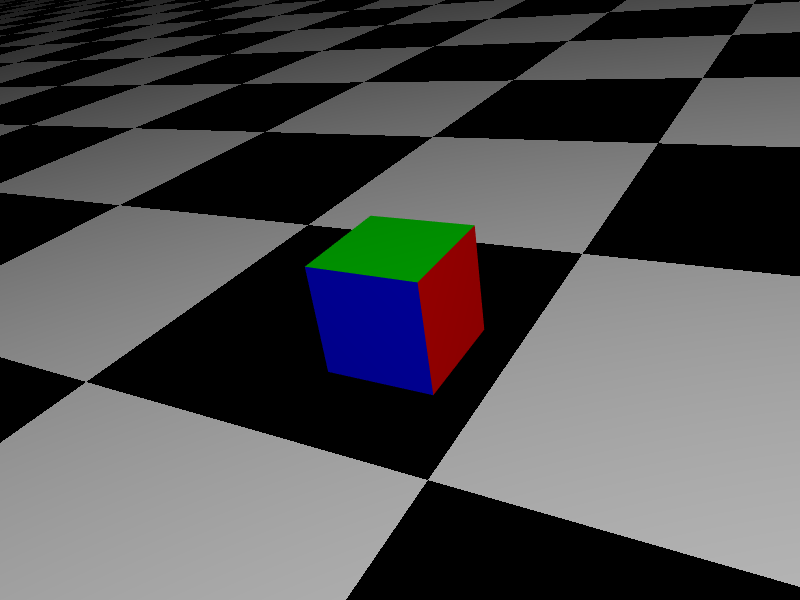
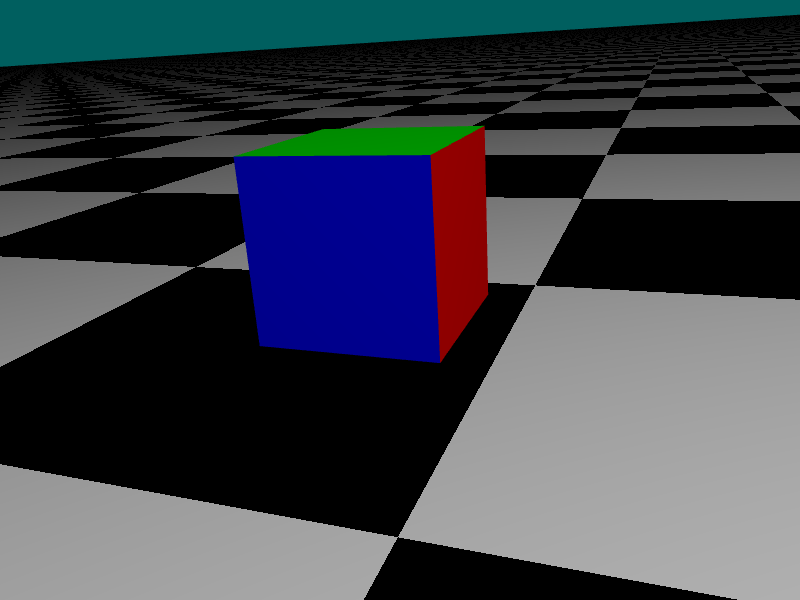
updated starter code

diff --git a/src/menger/tests/MengerTests.ts b/src/menger/tests/MengerTests.ts
@@ -116,7 +116,11 @@ for (let i = 1; i < 5; i++) {
     "Menger Sponge Level " + i,
     "./static/img/menger/level_" + i + "_ref.png",
     (animation) => {
-      dragMouse(canvas, -1, 1, 15);
+      animation.reset();
+      dragMouse(canvas, 1, -1, 10);
+      pressKey(window, "KeyW", 30);
+      pressKey(window, "KeyD", 5);
+      dragMouse(canvas, -1, 1, 20);
       pressKey(window, "Digit" + i, 1);
       animation.draw();
     }
@@ -126,17 +130,18 @@ for (let i = 1; i < 5; i++) {
 /**
  * Tests the mouse orbital rotation
  */
-mengerTests.integrationTest(
+/*mengerTests.integrationTest(
   "Mouse Orbital Rotation",
   "./static/img/menger/mouse_orbit_rotation_ref.png",
   (animation) => {
-
+    animation.reset();
     pressKey(window, "Digit2", 1);
+    pressKey(window, "KeyC", 1);
     dragMouse(canvas, -1, 1, 10);
     animation.draw();
 
   }
-);
+);*/
 
 /**
  * Tests the mouse fps rotation
@@ -145,8 +150,8 @@ mengerTests.integrationTest(
   "Mouse FPS Rotation",
   "./static/img/menger/mouse_fps_rotation_ref.png",
   (animation) => {
+    animation.reset();
     pressKey(window, "Digit2", 1);
-    pressKey(window, "KeyC", 1);
     dragMouse(canvas, -1, -1, 10);
     animation.draw();
   }
@@ -159,6 +164,7 @@ mengerTests.integrationTest(
   "Mouse Zoom In",
   "./static/img/menger/mouse_zoom_in_ref.png",
   (animation) => {
+    animation.reset();
     pressKey(window, "Digit2", 1);
     dragMouse(canvas, -1, -1, 35, true);
     animation.draw();
@@ -172,6 +178,7 @@ mengerTests.integrationTest(
   "Mouse Zoom Out",
   "./static/img/menger/mouse_zoom_out_ref.png",
   (animation) => {
+    animation.reset();
     pressKey(window, "Digit2", 1);
     dragMouse(canvas, -1, 1, 35, true);
     animation.draw();
@@ -181,15 +188,17 @@ mengerTests.integrationTest(
 /**
  * Tests W key Orbital Mode
  */
-mengerTests.integrationTest(
+/*mengerTests.integrationTest(
   "W Key (Orbital Mode)",
   "./static/img/menger/w_orbital_ref.png",
   (animation) => {
+    animation.reset();
     pressKey(window, "Digit2", 1);
+    pressKey(window, "KeyC", 1);
     pressKey(window, "KeyW", 35);
     animation.draw();
   }
-);
+);*/
 
 /**
  * Tests W Key in FPS Mode
@@ -198,8 +207,8 @@ mengerTests.integrationTest(
   "W Key (FPS Mode)",
   "./static/img/menger/w_fps_ref.png",
   (animation) => {
+    animation.reset();
     pressKey(window, "Digit2", 1);
-    pressKey(window, "KeyC", 1);
     dragMouse(canvas, 1, 0, 5);
     pressKey(window, "KeyW", 30);
     animation.draw();
@@ -209,15 +218,17 @@ mengerTests.integrationTest(
 /**
  * Tests S key Orbital Mode
  */
-mengerTests.integrationTest(
+/*mengerTests.integrationTest(
   "S Key (Orbital Mode)",
   "./static/img/menger/s_orbital_ref.png",
   (animation) => {
+    animation.reset();
     pressKey(window, "Digit2", 1);
+    pressKey(window, "KeyC", 1);  
     pressKey(window, "KeyS", 35);
     animation.draw();
   }
-);
+);*/
 
 /**
  * Tests S Key in FPS Mode
@@ -226,8 +237,8 @@ mengerTests.integrationTest(
   "S Key (FPS Mode)",
   "./static/img/menger/s_fps_ref.png",
   (animation) => {
+    animation.reset();
     pressKey(window, "Digit2", 1);
-    pressKey(window, "KeyC", 1);
     dragMouse(canvas, 1, 0, 10);
     pressKey(window, "KeyS", 30);
     animation.draw();
@@ -237,16 +248,18 @@ mengerTests.integrationTest(
 /**
  * Tests A key Orbital Mode
  */
-mengerTests.integrationTest(
+/*mengerTests.integrationTest(
   "A Key (Orbital Mode)",
   "./static/img/menger/a_orbital_ref.png",
   (animation) => {
+    animation.reset();
     pressKey(window, "Digit2", 1);
     pressKey(window, "KeyW", 35);
+    pressKey(window, "KeyC", 1);    
     pressKey(window, "KeyA", 5);
     animation.draw();
   }
-);
+);*/
 
 /**
  * Tests A Key in FPS Mode
@@ -256,9 +269,9 @@ mengerTests.integrationTest(
   "./static/img/menger/a_fps_ref.png",
   (animation) => {
     if (animation) {
+      animation.reset();
       pressKey(window, "Digit2", 1);
       pressKey(window, "KeyW", 35);
-      pressKey(window, "KeyC", 1);
       pressKey(window, "KeyA", 10);
       animation.draw();
     }
@@ -268,18 +281,20 @@ mengerTests.integrationTest(
 /**
  * Tests D key Orbital Mode
  */
-mengerTests.integrationTest(
+/*mengerTests.integrationTest(
   "D Key (Orbital Mode)",
   "./static/img/menger/d_orbital_ref.png",
   (animation) => {
     if (animation) {
+      animation.reset();
       pressKey(window, "Digit2", 1);
       pressKey(window, "KeyW", 35);
+      pressKey(window, "KeyC", 1);
       pressKey(window, "KeyD", 5);
       animation.draw();
     }
   }
-);
+);*/
 
 /**
  * Tests D Key in FPS Mode
@@ -289,9 +304,9 @@ mengerTests.integrationTest(
   "./static/img/menger/d_fps_ref.png",
   (animation) => {
     if (animation) {
+      animation.reset();
       pressKey(window, "Digit2", 1);
       pressKey(window, "KeyW", 35);
-      pressKey(window, "KeyC", 1);
       pressKey(window, "KeyD", 10);
       animation.draw();
     }
@@ -306,8 +321,9 @@ mengerTests.integrationTest(
   "./static/img/menger/left_arrow_ref.png",
   (animation) => {
     if (animation) {
+      animation.reset();
       pressKey(window, "Digit2", 1);
-      dragMouse(canvas, -1, 1, 15);
+      //dragMouse(canvas, -1, 1, 15);
       pressKey(window, "ArrowLeft", 10);
       animation.draw();
     }
@@ -322,8 +338,9 @@ mengerTests.integrationTest(
   "./static/img/menger/right_arrow_ref.png",
   (animation) => {
     if (animation) {
+      animation.reset();
       pressKey(window, "Digit2", 1);
-      dragMouse(canvas, -1, 1, 15);
+      //dragMouse(canvas, -1, 1, 15);
       pressKey(window, "ArrowRight", 10);
       animation.draw();
     }
@@ -333,17 +350,19 @@ mengerTests.integrationTest(
 /**
  * Tests Up arrow key in orbital mode
  */
-mengerTests.integrationTest(
+/*mengerTests.integrationTest(
   "Up Arrow Key (Orbital Mode)",
   "./static/img/menger/up_arrow_orbital_ref.png",
   (animation) => {
     if (animation) {
+      animation.reset();
       pressKey(window, "Digit2", 1);
+      pressKey(window, "KeyC", 1);
       pressKey(window, "ArrowUp", 4);
       animation.draw();
     }
   }
-);
+);*/
 
 /**
  * Tests up arrow in fps mode
@@ -353,8 +372,8 @@ mengerTests.integrationTest(
   "./static/img/menger/up_arrow_fps_ref.png",
   (animation) => {
     if (animation) {
+      animation.reset();
       pressKey(window, "Digit2", 1);
-      pressKey(window, "KeyC", 1);
       pressKey(window, "ArrowUp", 13);
       animation.draw();
     }
@@ -364,17 +383,19 @@ mengerTests.integrationTest(
 /**
  * Tests down arrow key in orbital mode
  */
-mengerTests.integrationTest(
+/*mengerTests.integrationTest(
   "Down Arrow Key (Orbital Mode)",
   "./static/img/menger/down_arrow_orbital_ref.png",
   (animation) => {
     if (animation) {
+      animation.reset();
       pressKey(window, "Digit2", 1);
+      pressKey(window, "KeyC", 1);
       pressKey(window, "ArrowDown", 4);
       animation.draw();
     }
   }
-);
+);*/
 
 /**
  * Tests down arrow in fps mode
@@ -384,8 +405,8 @@ mengerTests.integrationTest(
   "./static/img/menger/down_arrow_fps_ref.png",
   (animation) => {
     if (animation) {
+      animation.reset();
       pressKey(window, "Digit2", 1);
-      pressKey(window, "KeyC", 1);
       pressKey(window, "ArrowDown", 10);
       animation.draw();
     }

diff --git a/src/menger/MengerSponge.ts b/src/menger/MengerSponge.ts
@@ -16,7 +16,8 @@ interface IMengerSponge {
 export class MengerSponge implements IMengerSponge {
 
   // TODO: sponge data structures
-  
+  public level: number;
+
   constructor(level: number) {
 	  this.setLevel(level);
 	  // TODO: other initialization	
@@ -34,13 +35,23 @@ export class MengerSponge implements IMengerSponge {
   
   public setLevel(level: number)
   {
+    this.level = level;
 	  // TODO: initialize the cube
   }
 
   /* Returns a flat Float32Array of the sponge's vertex positions */
   public positionsFlat(): Float32Array {
 	  // TODO: right now this makes a single triangle. Make the cube fractal instead.
-	  return new Float32Array([1.0, 0.0, 0.0, 1.0, -1.0, 0.0, 0.0, 1.0, 0.0, 1.0, 0.0, 1.0]);
+	  let min = -0.5;
+    let max = 0.5; 
+    return new Float32Array([min, min, min, 1.0, 
+                            min, min, max, 1.0, 
+                            min, max, max, 1.0,
+                            min, max, min, 1.0,
+                            max, min, max, 1.0,
+                            max, min, min, 1.0,
+                            max, max, min, 1.0,
+                            max, max, max, 1.0,]);
   }
 
   /**
@@ -48,7 +59,8 @@ export class MengerSponge implements IMengerSponge {
    */
   public indicesFlat(): Uint32Array {
     // TODO: right now this makes a single triangle. Make the cube fractal instead.
-    return new Uint32Array([0, 1, 2]);
+
+    return new Uint32Array([0, 1, 2, 3, 4, 5]);
   }
 
   /**
@@ -56,7 +68,14 @@ export class MengerSponge implements IMengerSponge {
    */
   public normalsFlat(): Float32Array {
 	  // TODO: right now this makes a single triangle. Make the cube fractal instead.
-	  return new Float32Array([0.0, 0.0, 1.0, 0.0, 0.0, 0.0, 1.0, 0.0, 0.0, 0.0, 1.0, 0.0]);
+	  return new Float32Array([0.0, 0.0, 1.0, 0.0, 
+                            0.0, 0.0, 1.0, 0.0, 
+                            0.0, 0.0, 1.0, 0.0,
+                            0.0, 0.0, 1.0, 0.0,
+                            0.0, 0.0, -1.0, 0.0,
+                            0.0, 0.0, -1.0, 0.0,
+                            0.0, 0.0, -1.0, 0.0,
+                            0.0, 0.0, -1.0, 0.0,]);
   }
 
   /**
